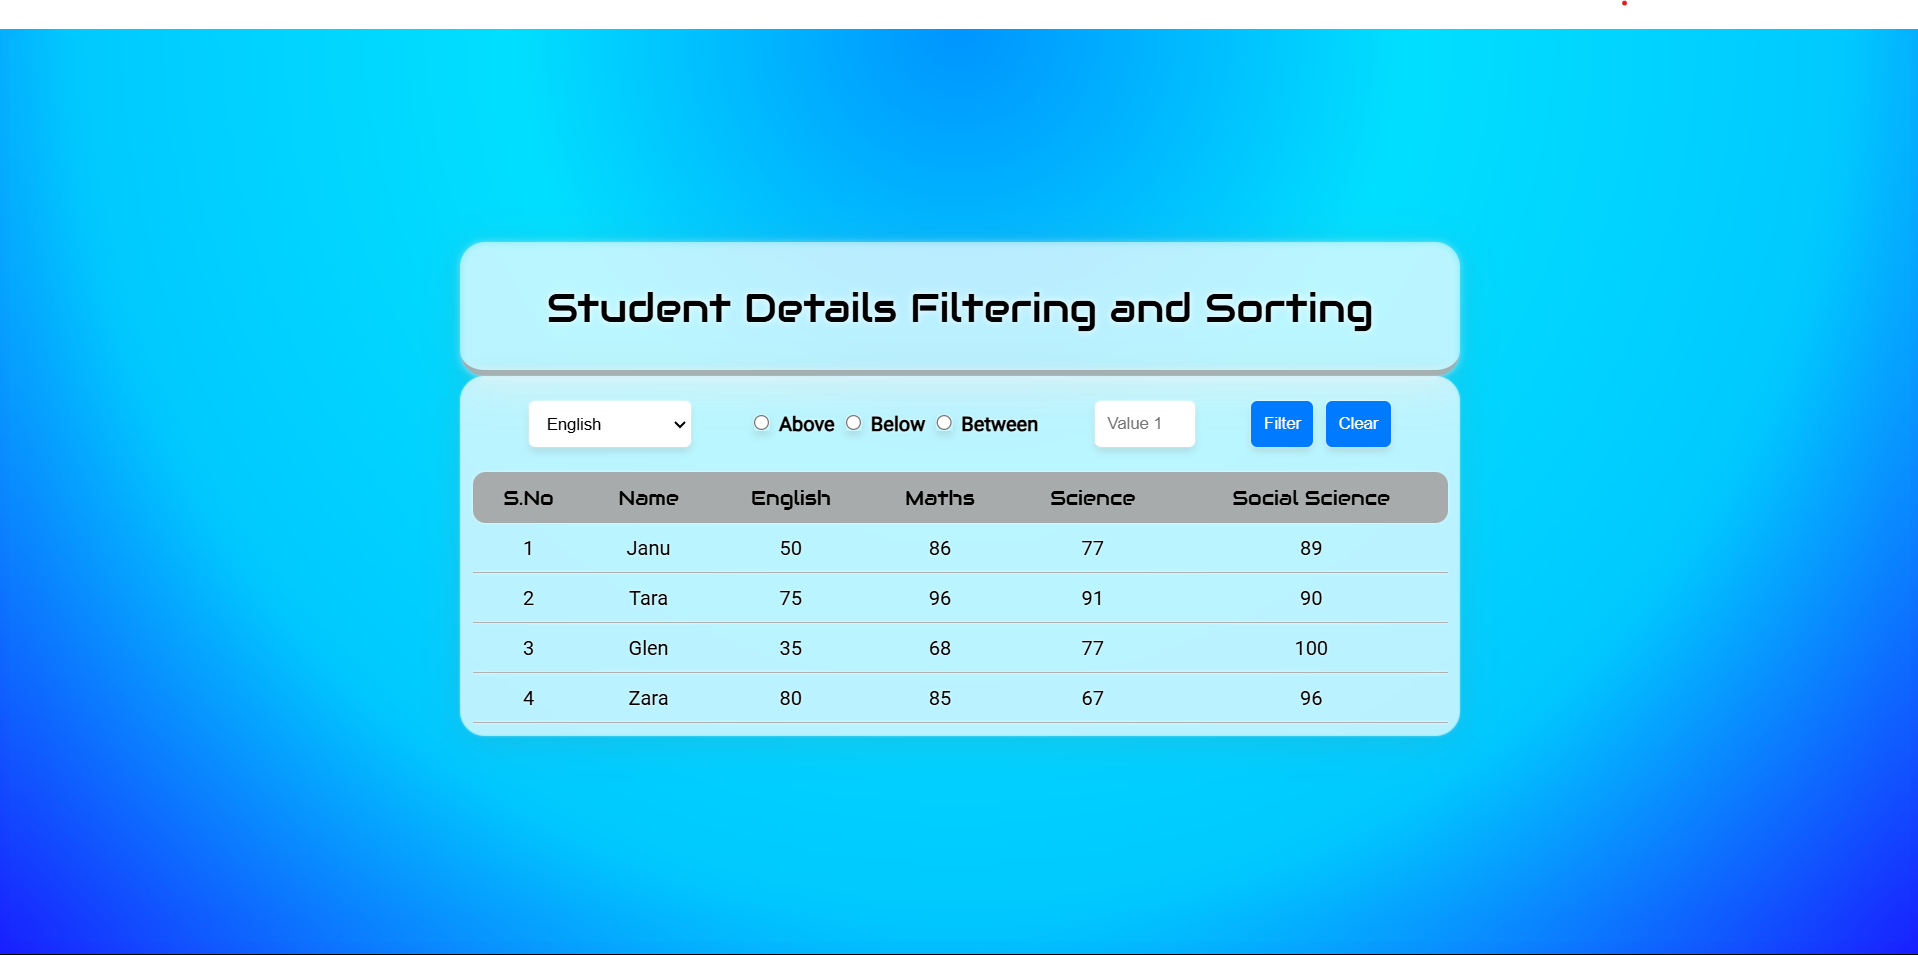
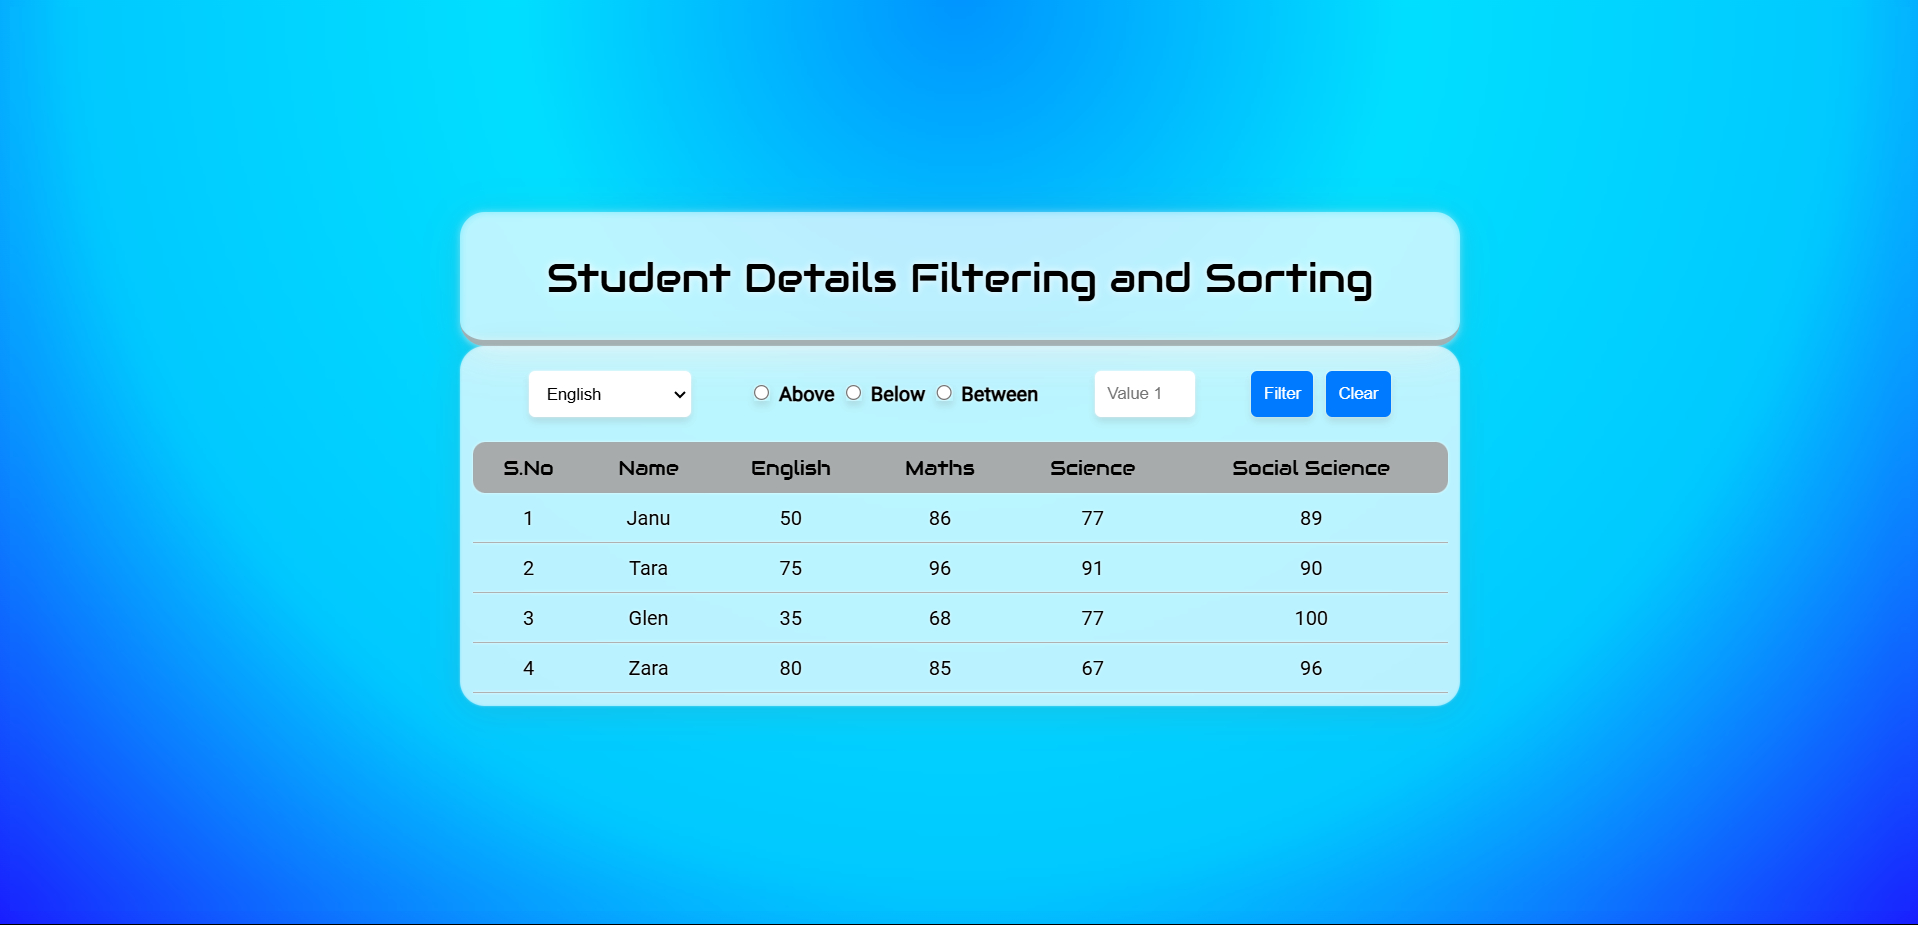
Commit

Changed region(s): [[0.2153, 0.2119, 0.769, 0.787], [0.0, 0.0, 1.0, 0.0303]]

diff --git a/index.html b/index.html
@@ -407,7 +407,7 @@
 
           <!-----------------------Project_9----------------------->
           <div class="project">
-            <img alt="Dice Roller" src="assets/projRes/dice-roll.png" />
+            <img alt="Dice Roller" src="assets/projRes/studSortRes.png" />
             <div class="project-content">
               <h2>
                 Student Details Sorting & Filtering
